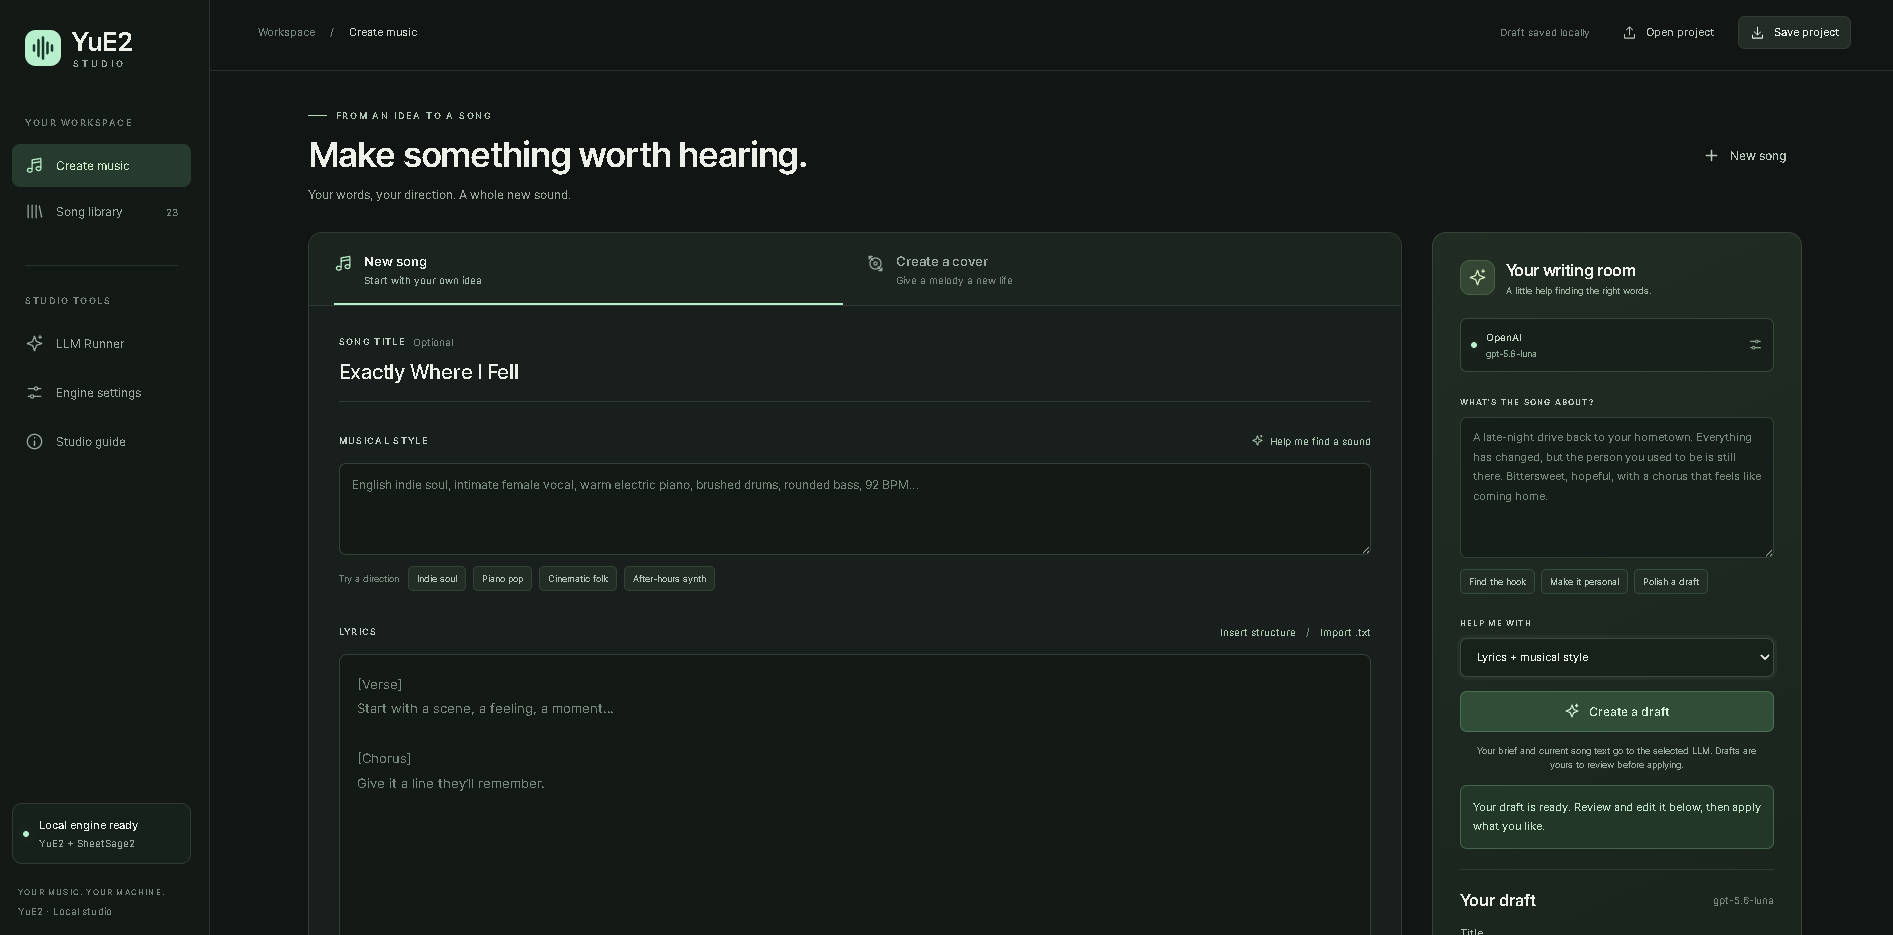
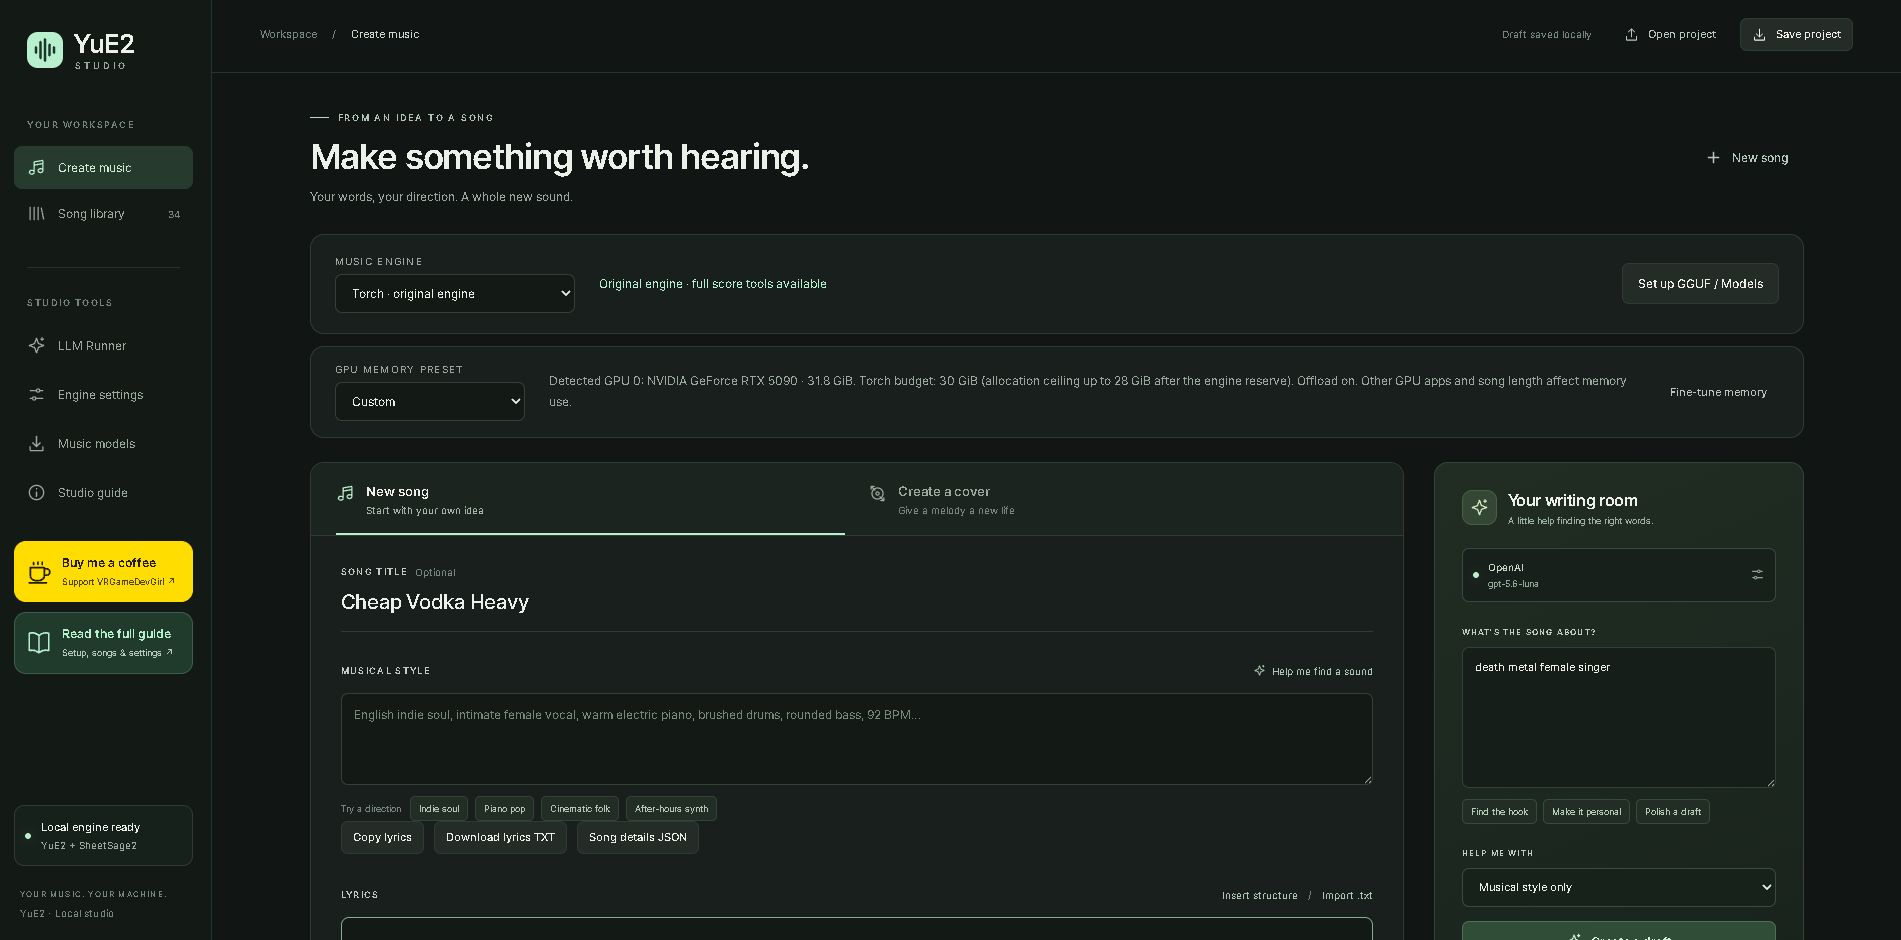
Label Studio as beta and refresh overview and setup screenshots

diff --git a/src/yue2_studio/static/style.css b/src/yue2_studio/static/style.css
@@ -27,3 +27,5 @@
 .gpu-preset-bar{display:flex;align-items:center;gap:24px;margin:-12px 0 24px;padding:16px 24px;border:1px solid var(--border);border-radius:var(--radius);background:var(--panel)}.gpu-preset-bar>div{min-width:190px}.gpu-preset-bar label{display:block;font-size:10px;letter-spacing:.13em;color:var(--muted);margin-bottom:7px}.gpu-preset-bar select{width:100%}.gpu-preset-bar p{flex:1;font-size:12px;line-height:1.7;color:var(--muted);margin:0}@media(max-width:800px){.gpu-preset-bar{flex-wrap:wrap;gap:12px}.gpu-preset-bar>div{min-width:0;flex:1}.gpu-preset-bar p{flex-basis:100%;order:3}}
 
 .sidebar{overflow-y:auto}.sidebar-bottom{padding-top:24px}.sidebar-links{display:grid;gap:10px;margin-top:24px}.sidebar-link{display:flex;align-items:center;gap:10px;padding:13px 11px;border-radius:12px;text-decoration:none;border:1px solid var(--border);transition:filter .15s,transform .15s}.sidebar-link:hover{filter:brightness(1.08);transform:translateY(-1px)}.sidebar-link svg{width:26px;height:26px;flex:none;fill:none;stroke:currentColor;stroke-width:1.6;stroke-linecap:round;stroke-linejoin:round}.sidebar-link strong{display:block;font-size:12px;line-height:1.4}.sidebar-link small{display:block;font-size:9px;line-height:1.5;margin-top:3px}.coffee-link{background:#ffdd00;color:#231d00;border-color:#ffdd00}.coffee-link small{color:#514300}.guide-link{background:#203b2c;color:var(--accent);border-color:#3c6049}.guide-link small{color:#b5c8bc}@media(max-width:760px){.sidebar-links{grid-template-columns:repeat(2,minmax(0,1fr));margin:12px 0}.sidebar-link{padding:10px;gap:8px}.sidebar-link strong{font-size:11px}.sidebar-link small{font-size:8px}}
+
+.brand-sub .beta-badge{display:inline-block;vertical-align:middle;margin-left:5px;padding:2px 5px;border:1px solid #52745d;border-radius:4px;color:var(--accent);font-size:8px;line-height:1.2;letter-spacing:1px}

diff --git a/src/yue2_studio/static/index.html b/src/yue2_studio/static/index.html
@@ -1,6 +1,6 @@
 <!doctype html>
 <html lang="en">
-<head><meta charset="utf-8"><meta name="viewport" content="width=device-width,initial-scale=1"><meta name="theme-color" content="#111614"><title>YuE2 Studio — Make something worth hearing</title><link rel="icon" href="/mark.svg" type="image/svg+xml"><link rel="stylesheet" href="/style.css"><script src="/models.js" defer></script><script src="/app.js" defer></script></head>
+<head><meta charset="utf-8"><meta name="viewport" content="width=device-width,initial-scale=1"><meta name="theme-color" content="#111614"><title>YuE2 Studio · Beta — Make something worth hearing</title><link rel="icon" href="/mark.svg" type="image/svg+xml"><link rel="stylesheet" href="/style.css"><script src="/models.js" defer></script><script src="/app.js" defer></script></head>
 <body>
 <svg class="icon-defs" aria-hidden="true"><defs>
 <symbol id="i-plus" viewBox="0 0 24 24"><path d="M12 5v14M5 12h14"/></symbol>
@@ -20,7 +20,7 @@
 </defs></svg>
 <div class="app-shell">
   <aside class="sidebar">
-    <a class="brand" href="/" aria-label="YuE2 Studio home"><img src="/mark.svg" alt="" width="36" height="36"><span>YuE2<span class="brand-sub">STUDIO</span></span></a>
+    <a class="brand" href="/" aria-label="YuE2 Studio home"><img src="/mark.svg" alt="" width="36" height="36"><span>YuE2<span class="brand-sub">STUDIO <span class="beta-badge">BETA</span></span></span></a>
     <div class="workspace-label">YOUR WORKSPACE</div>
     <nav aria-label="Main navigation">
       <button class="nav-item active" data-view="create"><svg><use href="#i-music"/></svg>Create music</button>

diff --git a/docs/studio.md b/docs/studio.md
@@ -1,4 +1,4 @@
-# YuE2 Studio
+# YuE2 Studio · Beta
 
 A local HTML/CSS/JavaScript music studio backed by the installed Python engines. No Gradio,
 Node build, CDN, or additional runtime Python packages are needed.
@@ -25,6 +25,26 @@ worker, the engine checks compiled Flash Attention availability, using cuDNN att
 when supported (otherwise SDPA) when Flash Attention is missing. `torch-eager` remains an
 explicit, slower troubleshooting option. Older saved drafts keep their selection;
 choose **Advanced settings → Inference backend → torch** to restore fast generation.
+
+## Choose an engine and GPU memory preset
+
+![Music engine selector](../images/music-engine.png)
+
+Choose **Torch** for the native engine, or **GGUF** for audio.cpp. Switching keeps
+your current song. GGUF needs a compatible engine and its separate model files.
+
+![Open GGUF setup and model downloads](../images/gguf-setup-button.png)
+
+Click **Set up GGUF / Models**, or **Music models** in the sidebar, to check engine
+setup, download Q4/Q8/BF16 bundles, and select an installed model. See the
+[GGUF setup guide](gguf.md) for requirements and experimental limitations.
+
+![GPU memory preset and effective memory summary](../images/gpu-memory-preset.png)
+
+Choose **Auto**, a GPU capacity, or **Custom**. Native presets set the Torch budget,
+offloading, and automatic VAE tiles. GGUF shows a model suggestion instead of using
+the Torch budget. Read the [preset table and limits](settings.md#gpu-memory-presets).
+The screenshot shows Custom because the memory controls were adjusted manually.
 
 ## Create music
 

diff --git a/README.md b/README.md
@@ -1,8 +1,12 @@
-# YuE2 Studio
+# YuE2 Studio · Beta
 
 A local web studio for **YuE2** with original songs, melody covers, an LLM writing room,
 automatic song batches, and detailed generation controls. Custom HTML/CSS/JavaScript UI;
 no Gradio, Node build, or extra runtime Python dependencies beyond the installed engines.
+
+**Beta preview:** tested on Windows with an RTX 5090. Other hardware configurations
+are still being validated. GGUF and lower-VRAM presets remain experimental.
+Planned first release: `v0.1.0-beta.1`.
 
 ![YuE2 Studio with the song editor, navigation and LLM writing room](images/studio-overview.png)
 
@@ -170,5 +174,13 @@ The server is local-only; cloning gives each user their own studio, not access t
 | Writing room | Review your draft | Surprise me |
 | --- | --- | --- |
 | ![Describe a song idea](images/writing-room.png) | ![Edit and apply generated lyrics](images/review-draft.png) | ![Automatic song batches](images/surprise-me.png) |
+
+### Engine and memory controls
+
+![Main music engine selector](images/music-engine.png)
+
+![GGUF setup and model downloads button](images/gguf-setup-button.png)
+
+![GPU memory preset with the effective budget](images/gpu-memory-preset.png)
 
 Click any screenshot to see it full size. The [illustrated guide](docs/studio.md) walks through each screen.
